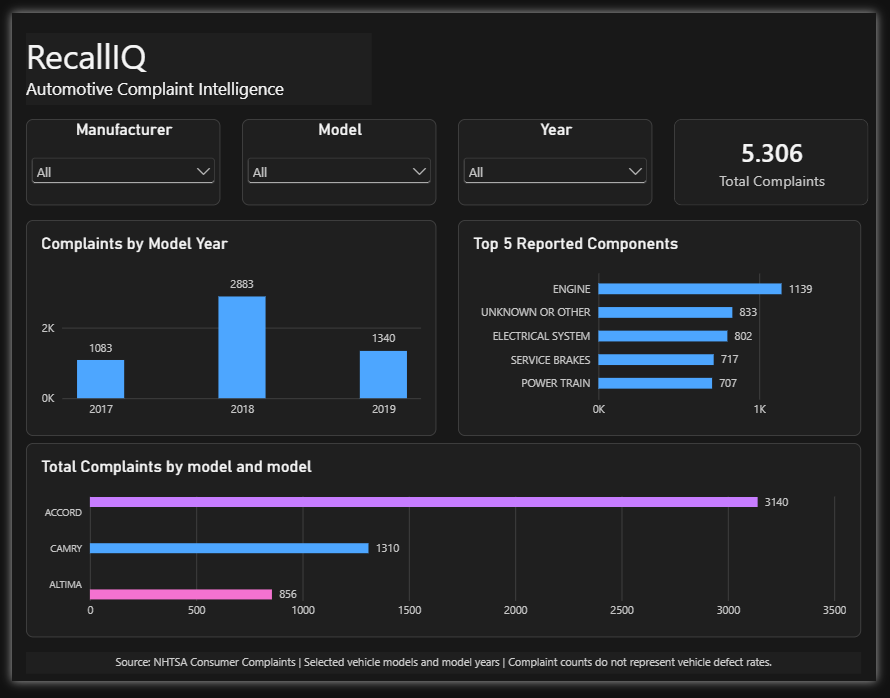
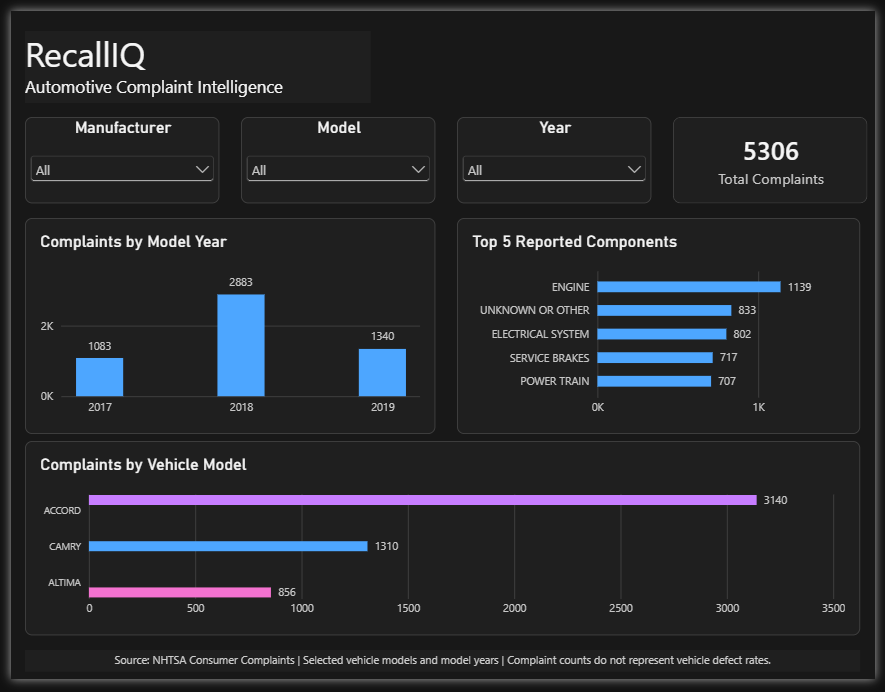
Improve portfolio documentation and add CI tests

diff --git a/README.md b/README.md
@@ -28,22 +28,24 @@ Model years: 2017, 2018 and 2019.
 
 ## Data Pipeline
 
-NHTSA API
-    |
-    v
+```text
+NHTSA REST API
+       |
+       v
 Python Data Ingestion
-    |
-    v
-Data Quality Checks & Cleaning
-    |
-    v
+       |
+       v
+Data Cleaning & Validation
+       |
+       v
 PostgreSQL Database
-    |
-    v
+       |
+       v
 SQL Analytical Views
-    |
-    v
+       |
+       v
 Power BI Dashboard
+```
 
 ## Key Features
 
@@ -97,6 +99,28 @@ Run tests:
 NHTSA Consumer Complaint Records (United States).
 
 https://www.nhtsa.gov/nhtsa-datasets-and-apis
+
+## Key Findings
+
+The dashboard dataset contains 5,306 consumer
+complaint records across nine model-year combinations.
+
+Complaint counts by vehicle model:
+
+| Vehicle Model | Reported Complaints |
+|---|---:|
+| Honda Accord | 3,140 |
+| Toyota Camry | 1,310 |
+| Nissan Altima | 856 |
+
+The highest complaint volume was recorded for
+the 2018 model year across the selected vehicles.
+
+Engine-related complaints are among the most
+frequently reported component categories.
+
+These results describe reporting patterns rather
+than relative vehicle reliability or defect rates.
 
 ## Limitations
 
